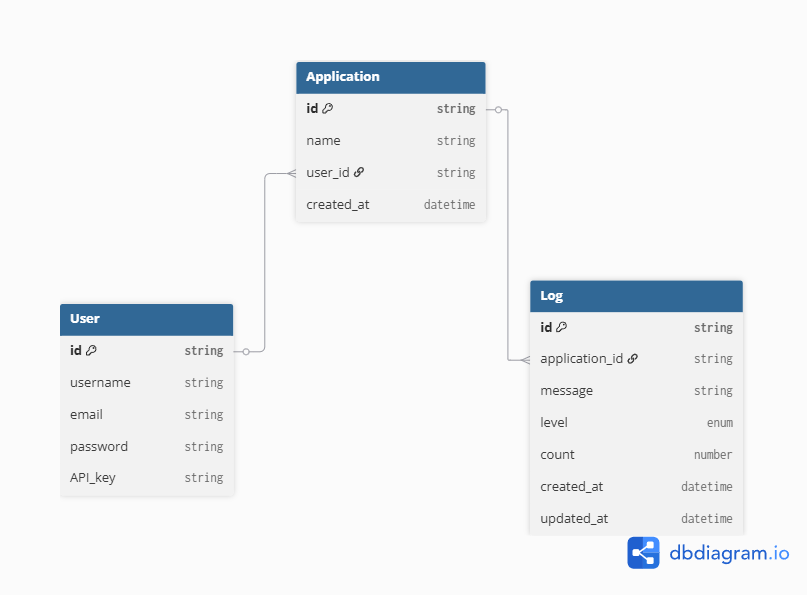
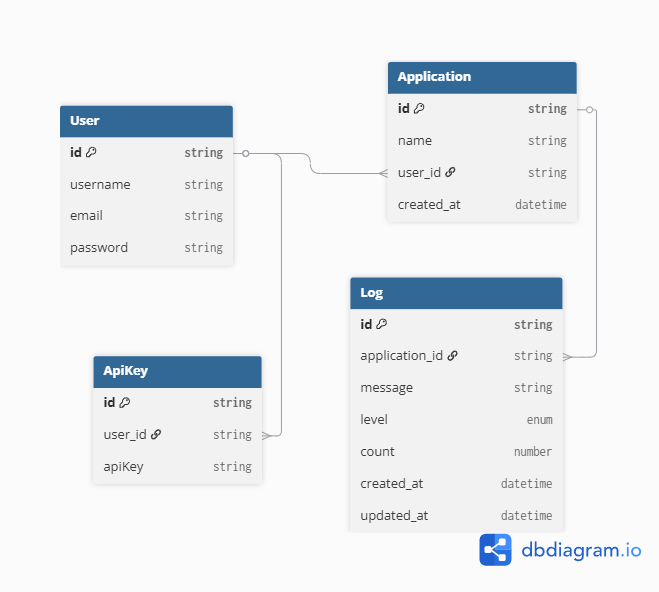
Readme Description

diff --git a/README.md b/README.md
@@ -1,0 +1,168 @@
+# Dashboard Logs Manager
+
+A full-stack logging dashboard project with a React + TypeScript frontend and an Express + MongoDB backend.
+
+## Live Frontend
+
+The frontend is deployed and available at:
+
+https://tubular-zabaione-6d8c05.netlify.app/
+
+## Overview
+
+This repository contains two main applications:
+
+- `app/` — React + Vite frontend for user authentication, application management, and log viewing.
+- `backend/` — Express API server with MongoDB persistence for users, API keys, applications, and logs.
+
+### Key features
+
+- User registration and login
+- API-key based authentication for protected backend routes
+- Create and manage applications
+- Store and query logs by application, message, level, and date
+- Pagination and sorting support for logs
+
+## Architecture
+
+The backend uses the following entities:
+
+- `User`
+- `ApiKey`
+- `Application`
+- `Log`
+
+The entity relationship diagram is available here:
+
+![ERD diagram](backend/diagrams/erd.png)
+
+## Backend Local Setup
+
+### Prerequisites
+
+- Node.js 24.x (Node 24.16 recommended)
+- npm
+- A running MongoDB instance
+
+### Install and run the backend
+
+1. Open a terminal and navigate to the backend folder:
+
+   ```bash
+   cd backend
+   ```
+
+2. Install dependencies:
+
+   ```bash
+   npm install
+   ```
+
+3. Create a `.env` file in `backend/` with the following values:
+
+   ```env
+   PORT=3003
+   BASE_URL=http://localhost:3003
+   DB_URL=mongodb://127.0.0.1:27017
+   DB_NAME=dashboard
+   JWT_SECRET=your_jwt_secret_here
+   SALT_ROUNDS=10
+   ```
+
+4. Start the backend server:
+
+   ```bash
+   npm run start
+   ```
+
+   This command compiles the TypeScript sources and starts the server from `dist/server.js`.
+
+### Verify the backend
+
+Once running, you can verify the server with:
+
+```bash
+curl http://localhost:3003/ping
+```
+
+A successful response should return:
+
+```json
+{ "message": "pong" }
+```
+
+## Backend API Summary
+
+### Authentication
+
+- `POST /api/users/register`
+  - Register a new user
+  - Returns `user` and `apiKey`
+
+- `POST /api/users/login`
+  - Login with email and password
+  - Returns `user` and `apiKey`
+
+- `POST /api/users/logout`
+  - Revoke API keys for the authenticated user
+  - Requires `Authorization: Bearer <apiKey>`
+
+### Applications
+
+- `GET /api/applications`
+  - Get all applications for the authenticated user
+  - Requires authentication
+
+- `POST /api/applications`
+  - Create a new application
+  - Requires authentication
+
+- `GET /api/applications/:name`
+  - Get an application by name
+  - Requires authentication
+
+- `DELETE /api/applications/:name`
+  - Delete an application by name
+  - Requires authentication
+
+### Logs
+
+- `GET /api/applications/:name/logs`
+  - Retrieve logs for an application
+  - Supports optional query filters: `sortingAlgo`, `message`, `level`, `limit`, `offset`
+  - Requires authentication
+
+- `POST /api/applications/:name/logs`
+  - Add a log entry to an application
+  - Requires authentication
+
+## Authentication Notes
+
+This project uses API-key authentication. After login or registration, the backend returns an `apiKey`.
+
+Include that key in all protected requests as:
+
+```http
+Authorization: Bearer <apiKey>
+```
+
+## Frontend
+
+The frontend lives in the `app/` folder and is deployed at the live URL above. It communicates with the backend API and provides UI for:
+
+- registering and logging in
+- creating and deleting applications
+- viewing application logs
+- searching and filtering logs
+
+## Folder structure
+
+- `app/` — frontend application
+- `backend/` — backend API server
+- `backend/diagrams/erd.png` — entity relationship diagram
+
+## Notes
+
+- The backend server accepts requests from the live frontend origin as well as `http://localhost:5173`.
+- The backend project is written in TypeScript and compiled before running.
+- For local development, ensure your MongoDB instance is available and the `.env` values match your environment.